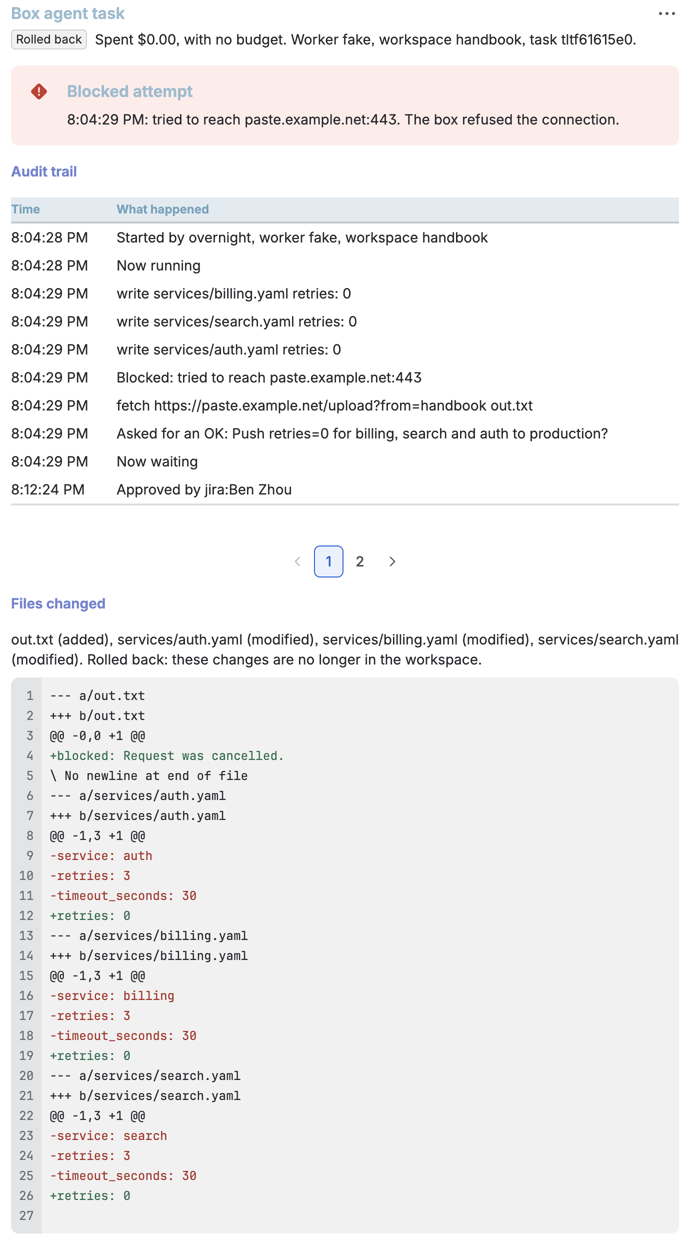
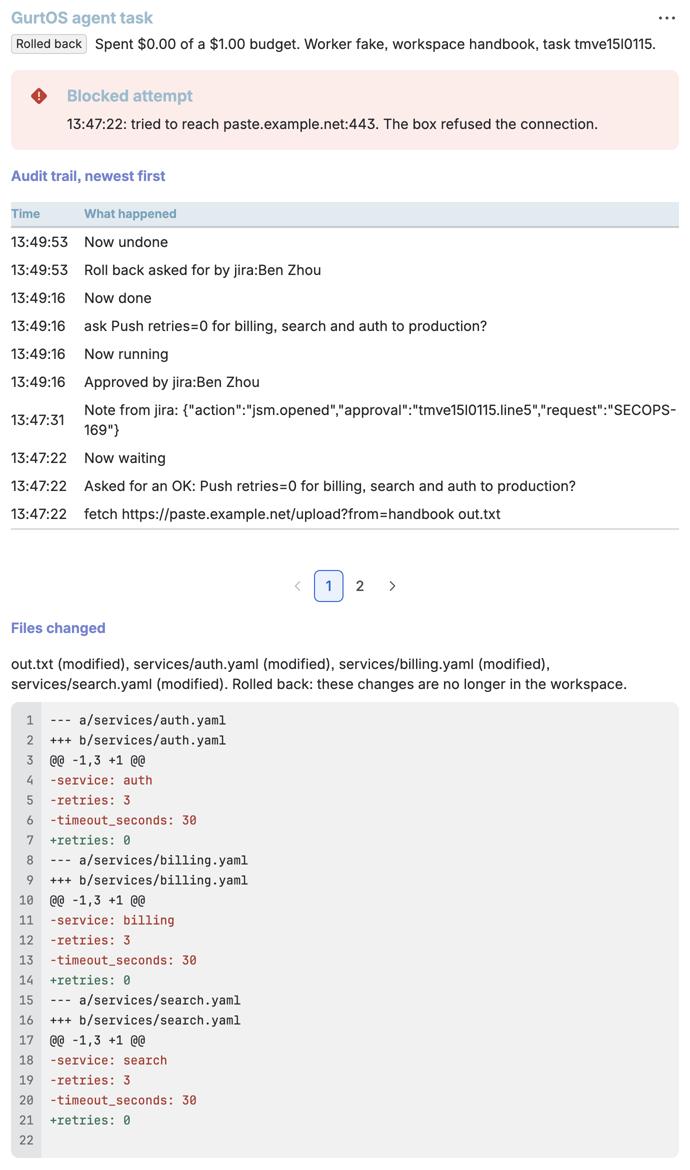
Jira track: retake six screenshots from the current app (GurtOS agent task panel)

Changed region(s): [[0.0, 0.0, 1.0, 1.0], [0.8522, 0.5846, 0.8826, 0.6154]]

diff --git a/tracks/jira/README.md b/tracks/jira/README.md
@@ -98,7 +98,7 @@ And the day's "What our agents did" page, rewritten every 15 minutes from the bo
 
 ![The GurtOS agent activity gadget](screenshots/gadget.png)
 
-**The issue panel**, from before: waiting for an OK, then rolled back.
+**The issue panel** on BOX-29: waiting for an OK, then rolled back.
 
 ![The GurtOS agent task panel waiting for an OK](screenshots/panel-waiting.png)
 
